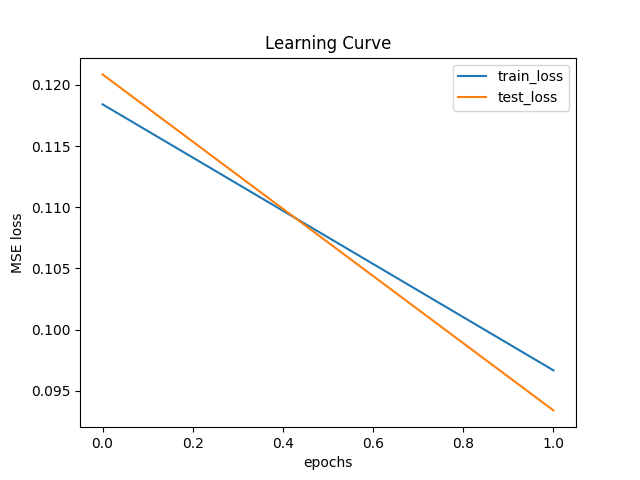
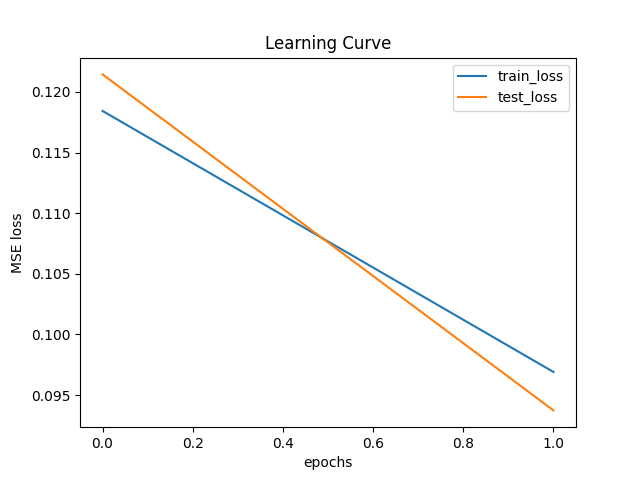
moved all pathes to path_config file

diff --git a/dvc_plots/index.html b/dvc_plots/index.html
@@ -22,15 +22,15 @@
         "filename": "reports/learning_curve.csv",
         "rev": "workspace",
         "step": 0,
-        "test_loss": "0.12086579948663712",
-        "train_loss": "0.11841837036940786"
+        "test_loss": "0.12144149839878082",
+        "train_loss": "0.11842869404289458"
     },
     {
         "filename": "reports/learning_curve.csv",
         "rev": "workspace",
         "step": 1,
-        "test_loss": "0.09338459372520447",
-        "train_loss": "0.09665956878827678"
+        "test_loss": "0.09374233335256577",
+        "train_loss": "0.09691104488240349"
     },
     {
         "filename": "reports/learning_curve.csv",

diff --git a/dvc_model_learning.py b/dvc_model_learning.py
@@ -15,6 +15,8 @@ import json
 # %%
 with open('params.yaml') as conf_file:
     config = yaml.safe_load(conf_file)
+with open('pathes.yaml') as conf_file:
+    path_config = yaml.safe_load(conf_file)
 
 # %%
 torch.manual_seed(config['random_seed'])
@@ -70,8 +72,8 @@ class DataLoader():
                     torch.from_numpy(output_data[:self.batch_size])
 
 
-input_path = config['dataset']['signal_path']
-output_path = config['sim']['pic_path']
+input_path = path_config['sensor_signal_path']
+output_path = path_config['batched_pic_path']
 batchsize = config['train']['batch_size']
 test_dataloader = DataLoader(jn(input_path, 'test'), output_path)
 train_dataloader = DataLoader(jn(input_path, 'train'),
@@ -195,12 +197,12 @@ for i, h in iter_train(train_dataloader,
 # %%
 train_loss, test_loss = zip(*history)
 df = pd.DataFrame({"train_loss": train_loss, 'test_loss': test_loss})
-if not os.path.exists(config['evaluate']['reports_path']):
-    os.makedirs(config['evaluate']['reports_path'])
-df.to_csv(jn(config['evaluate']['reports_path'], 'learning_curve.csv'),
+if not os.path.exists(path_config['reports_path']):
+    os.makedirs(path_config['reports_path'])
+df.to_csv(jn(path_config['reports_path'], 'learning_curve.csv'),
           index=False)
 res = {'train': {'loss': train_loss[-1]}, 'test': {'loss': min(test_loss)}}
-with open(jn(config['evaluate']['reports_path'], "summary.json"), "w") as f:
+with open(jn(path_config['reports_path'], "summary.json"), "w") as f:
     json.dump(res, f)
 
 # %%
@@ -214,14 +216,14 @@ with open(jn(config['evaluate']['reports_path'], "summary.json"), "w") as f:
 # plt.show()
 
 # %%
-os.makedirs(tr['models_path'])
-torch.save(model, jn(tr['models_path'], model_name + '.pt'))
+os.makedirs(path_config['model_path'])
+torch.save(model, jn(path_config['model_path'], model_name + '.pt'))
 
 # %% [markdown]
 # # evaluate model on don't seen data
 
     # # %%
-    # model = torch.load(jn(tr['models_path'], model_name + '.pt'))
+    # model = torch.load(jn(path_config['model_path'], model_name + '.pt'))
     # model.eval()
     # # %%
     # predictions = predict(model, test_dataloader)

diff --git a/dvc_pressure_map_gen.py b/dvc_pressure_map_gen.py
@@ -9,9 +9,11 @@ from tqdm import tqdm
 
 with open('params.yaml') as conf_file:
     config = yaml.safe_load(conf_file)
+with open('pathes.yaml') as conf_file:
+    path_config = yaml.safe_load(conf_file)
 
-if not os.path.exists(config['dataset']['pic_path']):
-    os.makedirs(config['dataset']['pic_path'])
+if not os.path.exists(path_config['generated_pic_path']):
+    os.makedirs(path_config['generated_pic_path'])
 
 geo = config['env']['sen_geometry']
 x = geo['x_len']
@@ -28,7 +30,7 @@ vec_mat = tf.reshape(vec_mat, [-1, 2])
 gaus_data = sl.gen_rand_cof(n_gaus * n_pic, x, y, size_kof,
                             seed=seeds[0])    # use random inside
 gaus_data = tf.reshape(gaus_data, [n_pic, n_gaus, 5])
-with open(config['env']['pressure_profile']['g_param_path'], 'wb+') as f:
+with open(path_config['gaus_param_path'], 'wb+') as f:
     np.save(f, gaus_data)
 
 bs_gpu = config['gengaus']['batch_size']
@@ -49,7 +51,7 @@ for batch in tqdm(batches, unit='batch'):
     if i % n == 0:
         pictures = tf.concat(pictures, axis=0)
         pictures = tf.reshape(pictures, [-1, x, y])
-        with open(jn(config['dataset']['pic_path'],
+        with open(jn(path_config['generated_pic_path'],
                      str(i//n - 1) + '.npy'), 'wb+') as f:
             np.save(f, pictures)
         pictures = []
@@ -57,6 +59,6 @@ for batch in tqdm(batches, unit='batch'):
 if len(pictures) > 0:
     pictures = tf.concat(pictures, axis=0)
     pictures = tf.reshape(pictures, [-1, x, y])
-    with open(jn(config['dataset']['pic_path'],
+    with open(jn(path_config['generated_pic_path'],
                  str(i // n) + '.npy'), 'wb+') as f:
         np.save(f, pictures)

diff --git a/dvc_evaluate_model.py b/dvc_evaluate_model.py
@@ -16,14 +16,17 @@ import pandas as pd
 # %%
 with open('params.yaml') as conf_file:
     config = yaml.safe_load(conf_file)
+with open('pathes.yaml') as conf_file:
+    path_config = yaml.safe_load(conf_file)
+
 
 torch.manual_seed(config['random_seed'])
 np.random.seed(config['random_seed'])
 device = 'cpu'
 model = torch.load(
-    jn(config['train']['models_path'], config['train']['model_name'] + '.pt'))
+    jn(path_config['model_path'], config['train']['model_name'] + '.pt'))
 model.eval()
-out_path = config['evaluate']['reports_path']
+out_path = path_config['reports_path']
 
 
 # %%
@@ -58,8 +61,8 @@ class DataSet():
             jn(output_path, self.file_names[index]))
 
 
-input_path = config['dataset']['signal_path']
-output_path = config['sim']['pic_path']
+input_path = path_config['sensor_signal_path']
+output_path = path_config['batched_pic_path']
 
 test_dataloader = DataSet(jn(input_path, 'test'), output_path)
 

diff --git a/dvc_sim_runner.py b/dvc_sim_runner.py
@@ -23,6 +23,9 @@ dataset.signal_path, dataset.pic_path, random_seed, env.sen_geometry, env.phys
 # %%
 with open('params.yaml') as conf_file:
     config = yaml.safe_load(conf_file)
+with open('pathes.yaml') as conf_file:
+    path_config = yaml.safe_load(conf_file)
+
 seed = np.random.seed(config['random_seed'])
 device = 'cuda' if torch.cuda.is_available() else 'cpu'
 
@@ -30,8 +33,8 @@ device = 'cuda' if torch.cuda.is_available() else 'cpu'
 sim = tsl.FiberSimulator(config, device=device)
 
 # %%
-pic_path = config['sim']['pic_path']
-signal_path = config['dataset']['signal_path']
+pic_path = path_config['batched_pic_path']
+signal_path = path_config['sensor_signal_path']
 if not os.path.exists(signal_path):
     os.makedirs(jn(signal_path, 'test'))
     os.makedirs(jn(signal_path, 'train'))

diff --git a/dvc_sim_batch_split.py b/dvc_sim_batch_split.py
@@ -9,10 +9,12 @@ import math
 
 with open('params.yaml') as conf_file:
     config = yaml.safe_load(conf_file)
+with open('pathes.yaml') as conf_file:
+    path_config = yaml.safe_load(conf_file)
 
-batch_path = config['sim']['pic_path']
-pic_path = config['dataset']['pic_path']
-# signal_path = config['dataset']['signal_path']
+batch_path = path_config['batched_pic_path']
+pic_path = path_config['generated_pic_path']
+# signal_path = path_config['sensor_signal_path']
 if not os.path.exists(batch_path):
     os.makedirs(batch_path)
 
